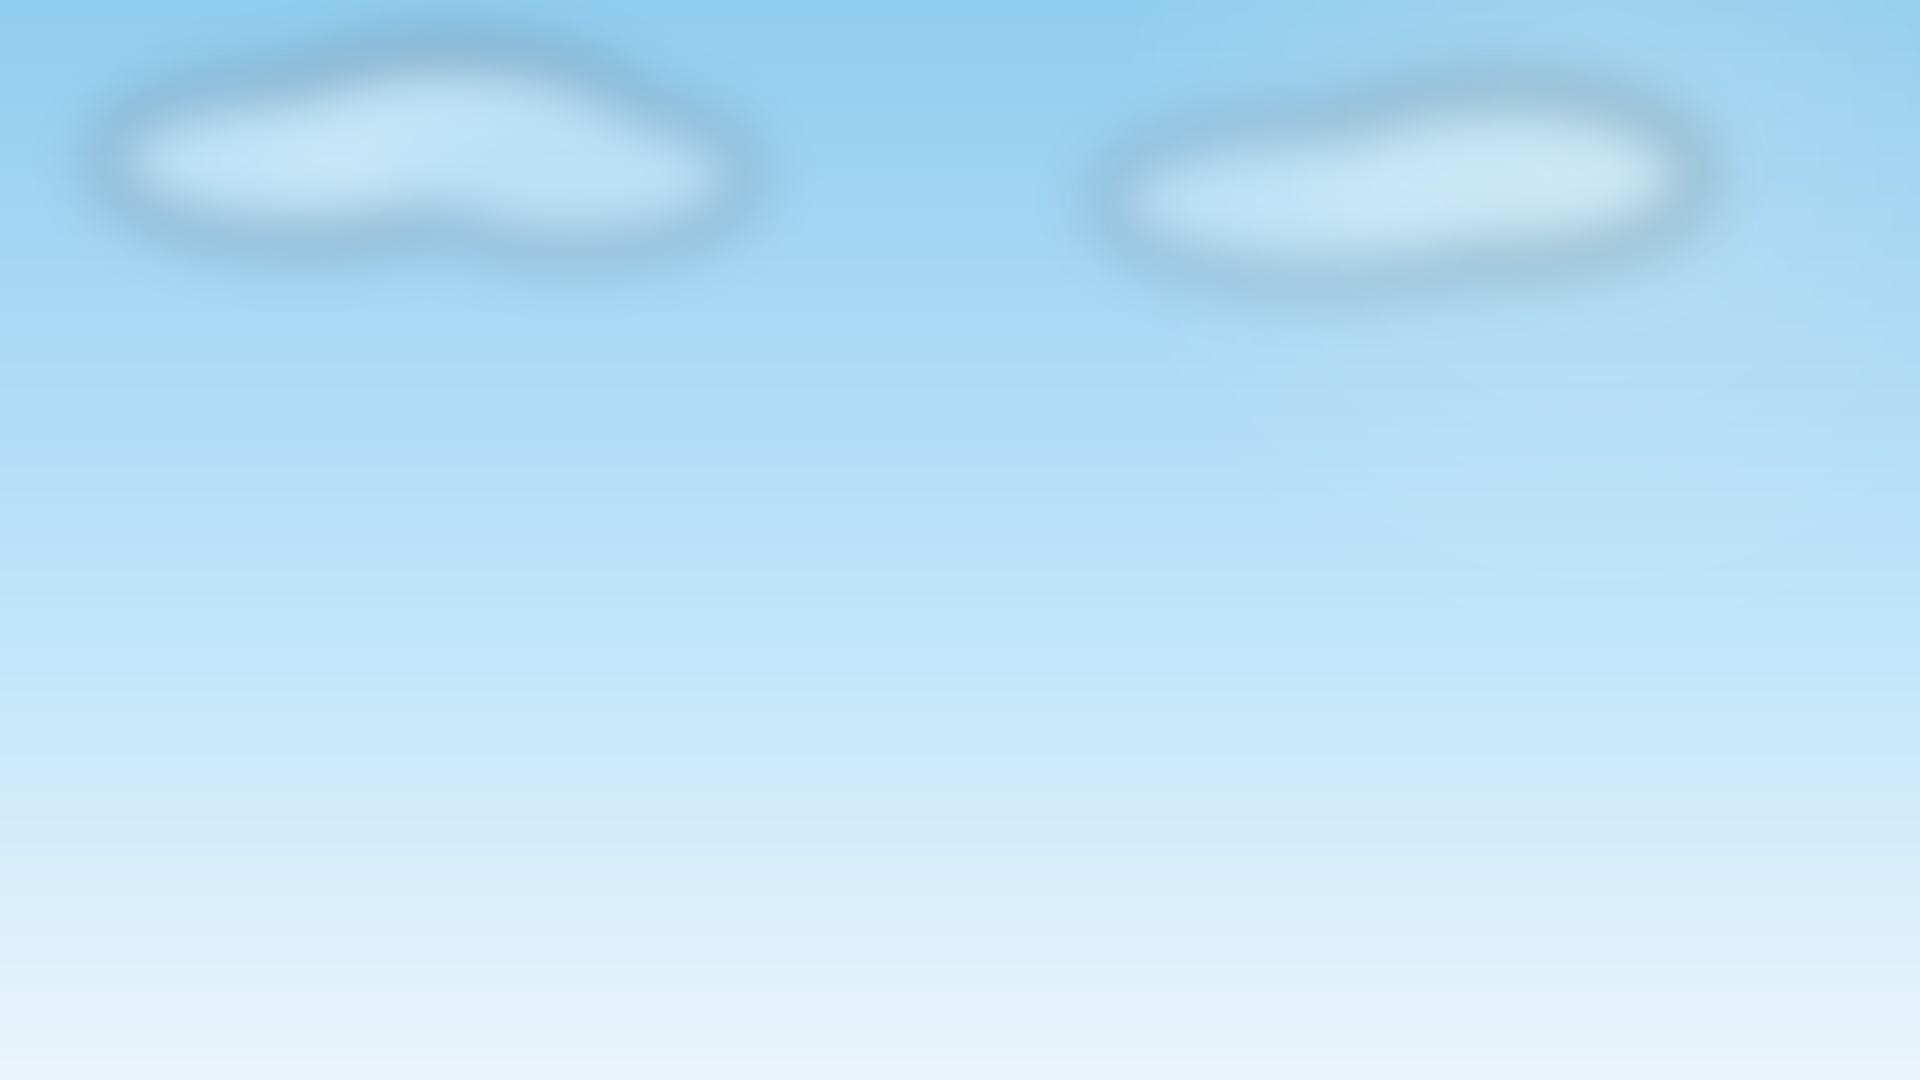
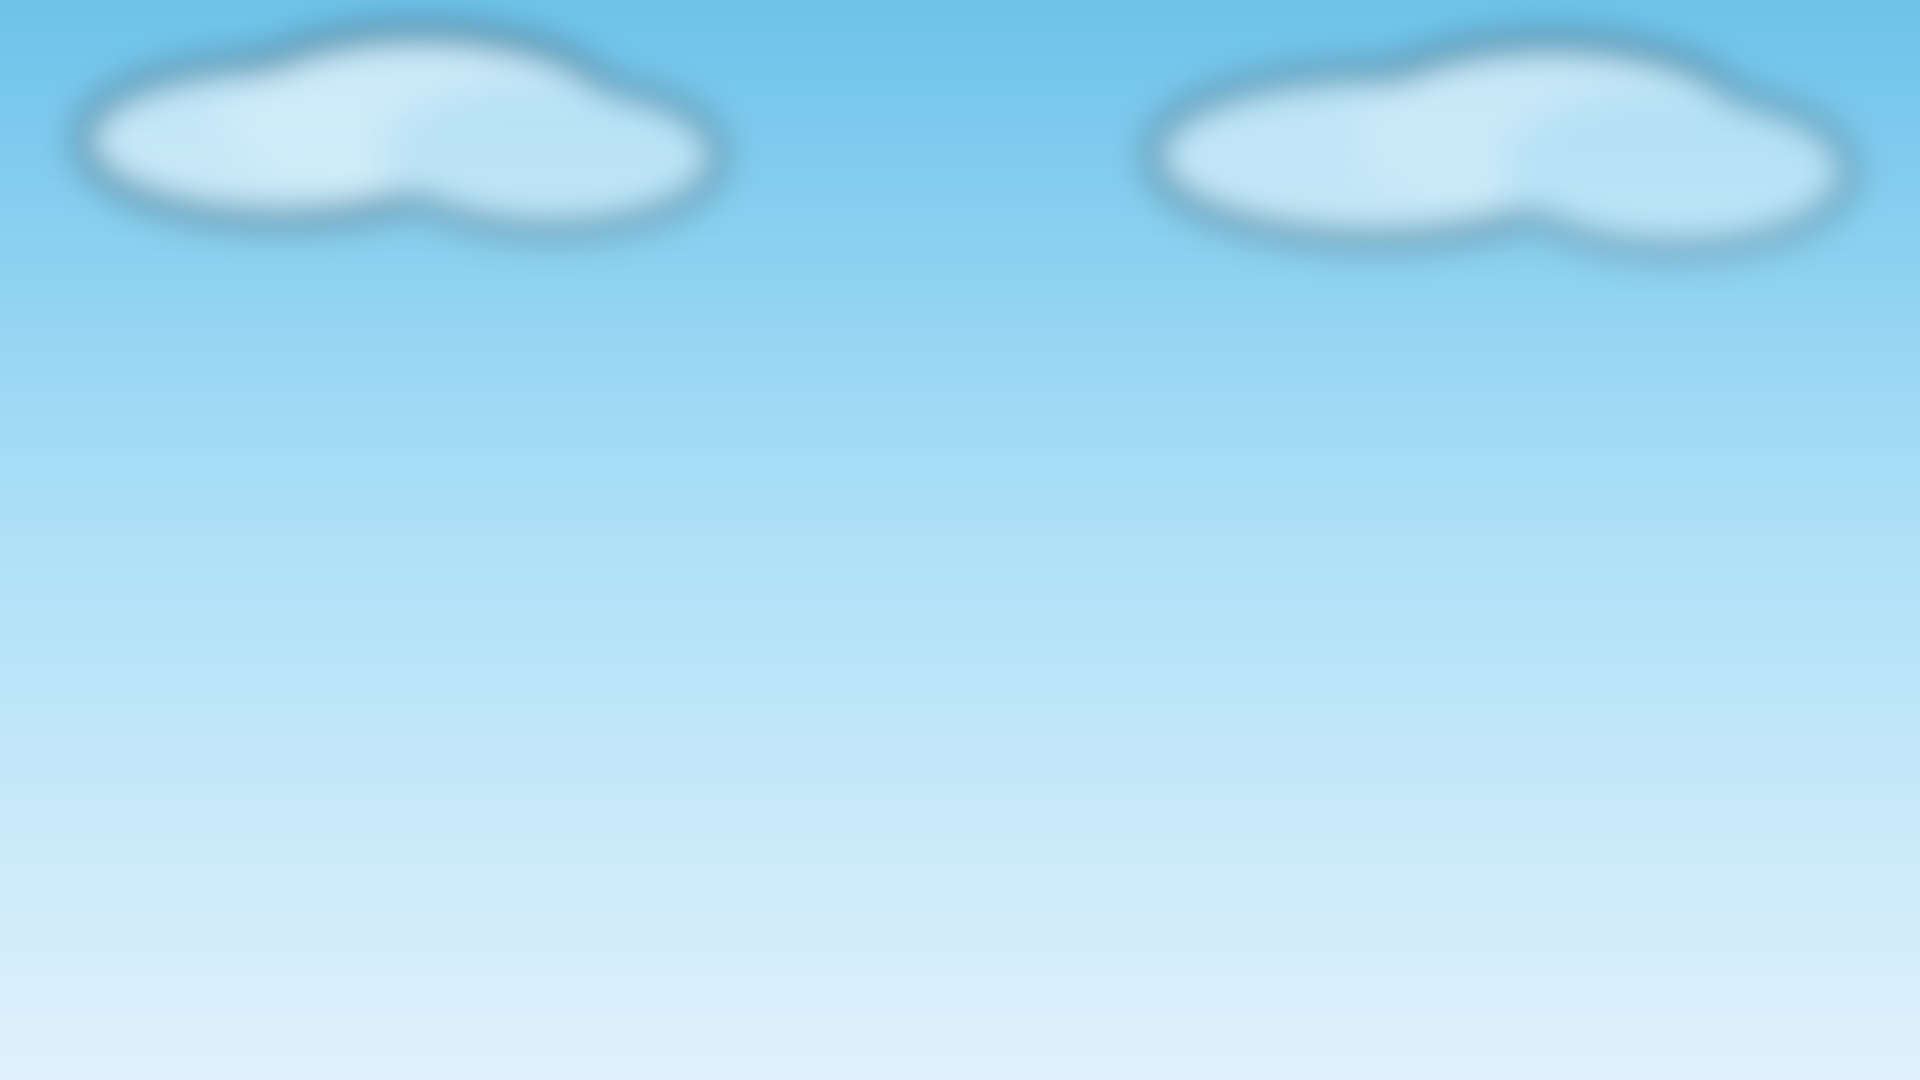
🐛 Bug Fixes from User Screenshots:
1. Hero Sky Background & Clouds:
- Replaced dark blurry cloud blobs with a crisp, bright summer sky gradient & soft white clouds
- Feathered bottom edge of hero product image (hero.png) so products sit seamlessly on the background without a harsh cut-off line

2. Subscribe & Save Section Text Legibility:
- Fixed unreadable dark green text on dark green background
- Updated all title, subheadline, benefit list, and card text to high-contrast crisp white (#FFFFFF)

Changed region(s): [[0.0, 0.0, 1.0, 0.3972]]

diff --git a/css/colors.css b/css/colors.css
@@ -585,3 +585,61 @@ h1, h2, h3, h4, h5, h6,
   border-radius: 0 !important;
   filter: drop-shadow(0 20px 30px rgba(15, 56, 44, 0.15));
 }
+
+/* ── SUBSCRIBE & SAVE HIGH-CONTRAST TEXT FIX ──────────────── */
+.subscribe-save {
+  background: linear-gradient(145deg, var(--forest-green) 0%, #08211A 100%) !important;
+  color: #ffffff !important;
+}
+.subscribe-save .section-eyebrow {
+  color: var(--sun-orange-lt) !important;
+  font-weight: 700 !important;
+}
+.subscribe-save .section-title {
+  color: #ffffff !important;
+}
+.subscribe-save .section-sub {
+  color: rgba(255, 255, 255, 0.85) !important;
+}
+.subscribe-save p,
+.subscribe-save li,
+.subscribe-save h2,
+.subscribe-save h3,
+.subscribe-save span {
+  color: #ffffff;
+}
+.subscribe-save .section-sub {
+  color: rgba(255, 255, 255, 0.85) !important;
+}
+.subscribe-benefit {
+  color: #ffffff !important;
+  font-weight: 600 !important;
+}
+.subscribe-benefit strong {
+  color: #ffffff !important;
+}
+.subscribe-benefit p {
+  color: rgba(255, 255, 255, 0.85) !important;
+}
+.subscribe-benefit::before {
+  background: var(--sun-orange) !important;
+  color: #ffffff !important;
+}
+.subscribe-plan {
+  background: rgba(255, 255, 255, 0.08) !important;
+  border-color: rgba(255, 255, 255, 0.2) !important;
+}
+.subscribe-plan.active {
+  background: #ffffff !important;
+  border-color: var(--sun-orange) !important;
+}
+.subscribe-plan.active .subscribe-plan__name,
+.subscribe-plan.active .subscribe-plan__price {
+  color: var(--forest-green) !important;
+}
+.subscribe-plan__name {
+  color: #ffffff !important;
+}
+.subscribe-plan__price {
+  color: rgba(255, 255, 255, 0.8) !important;
+}
